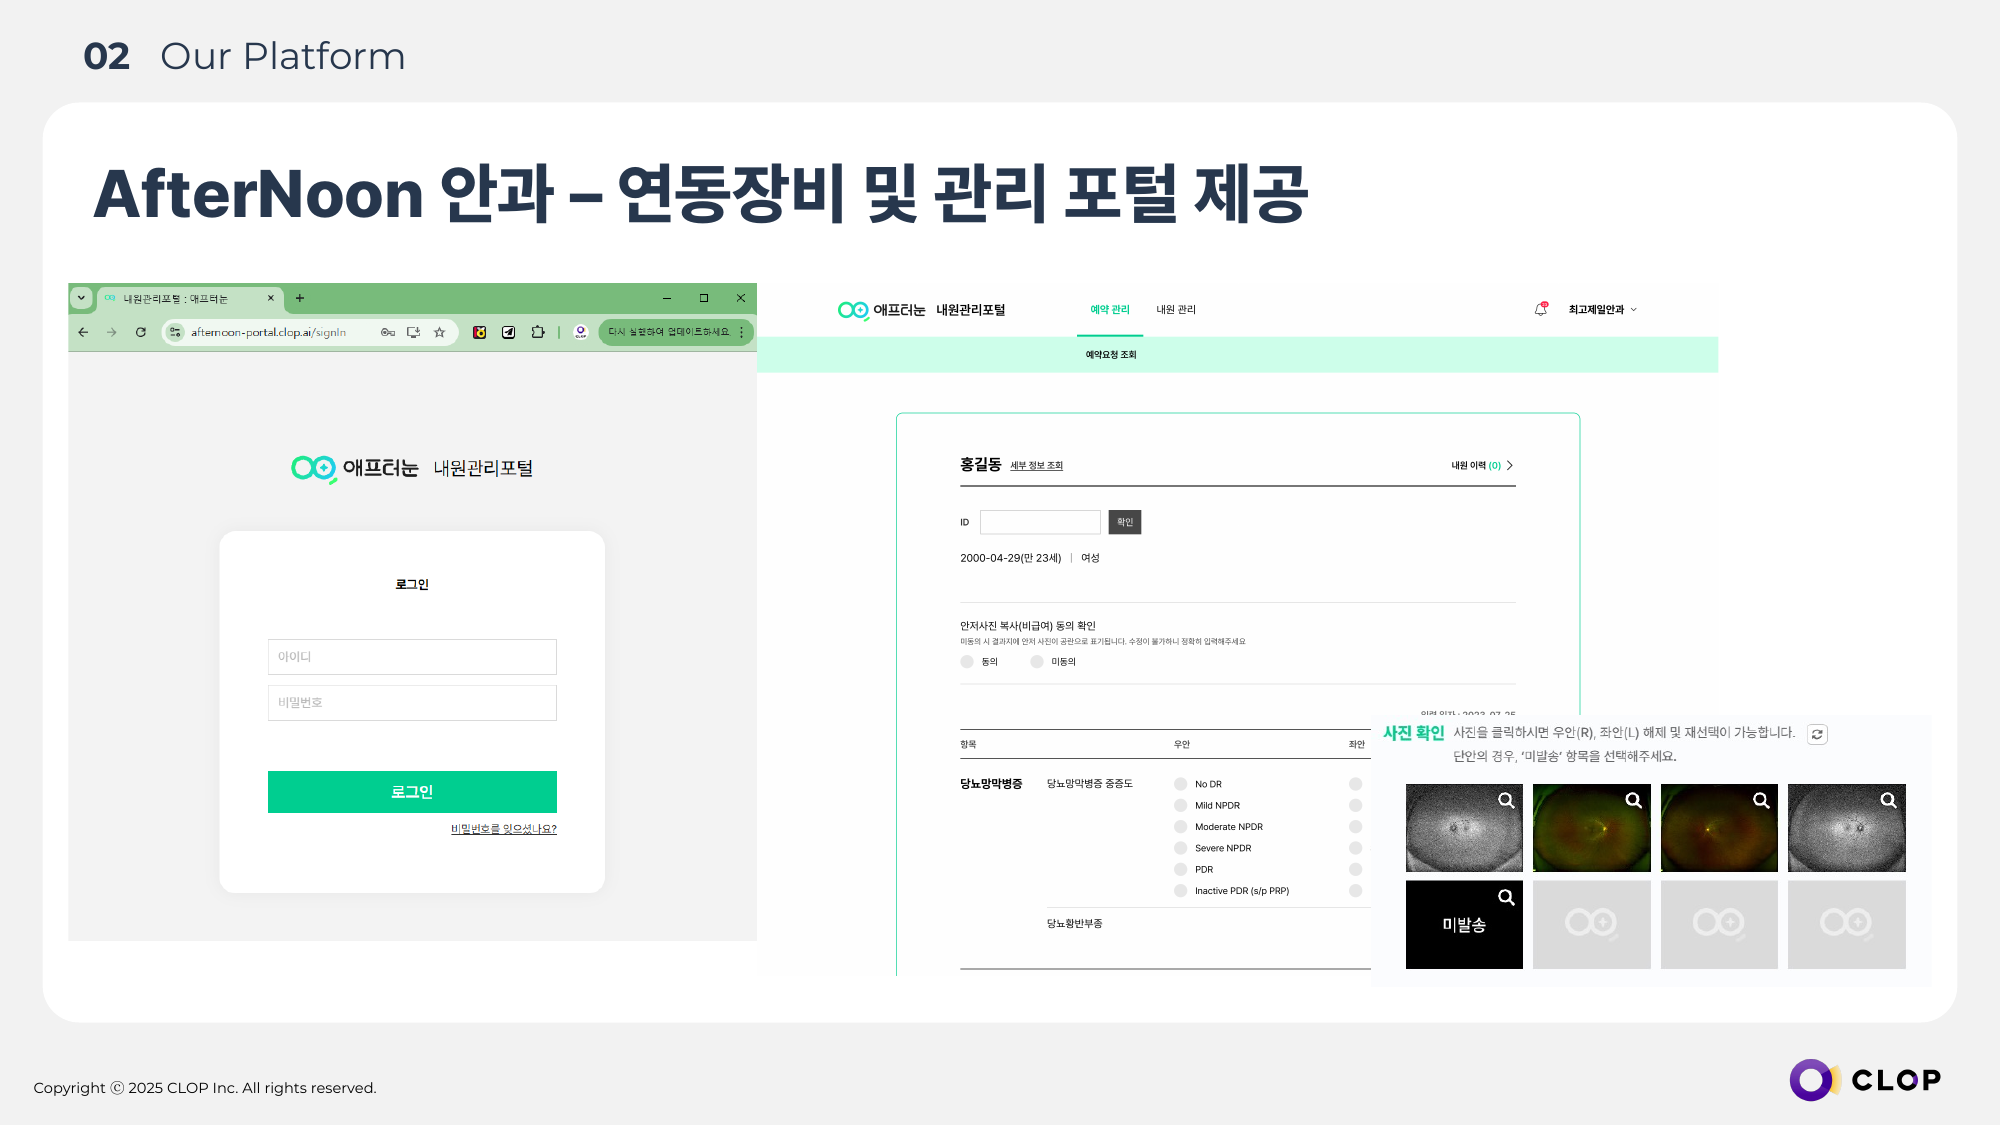
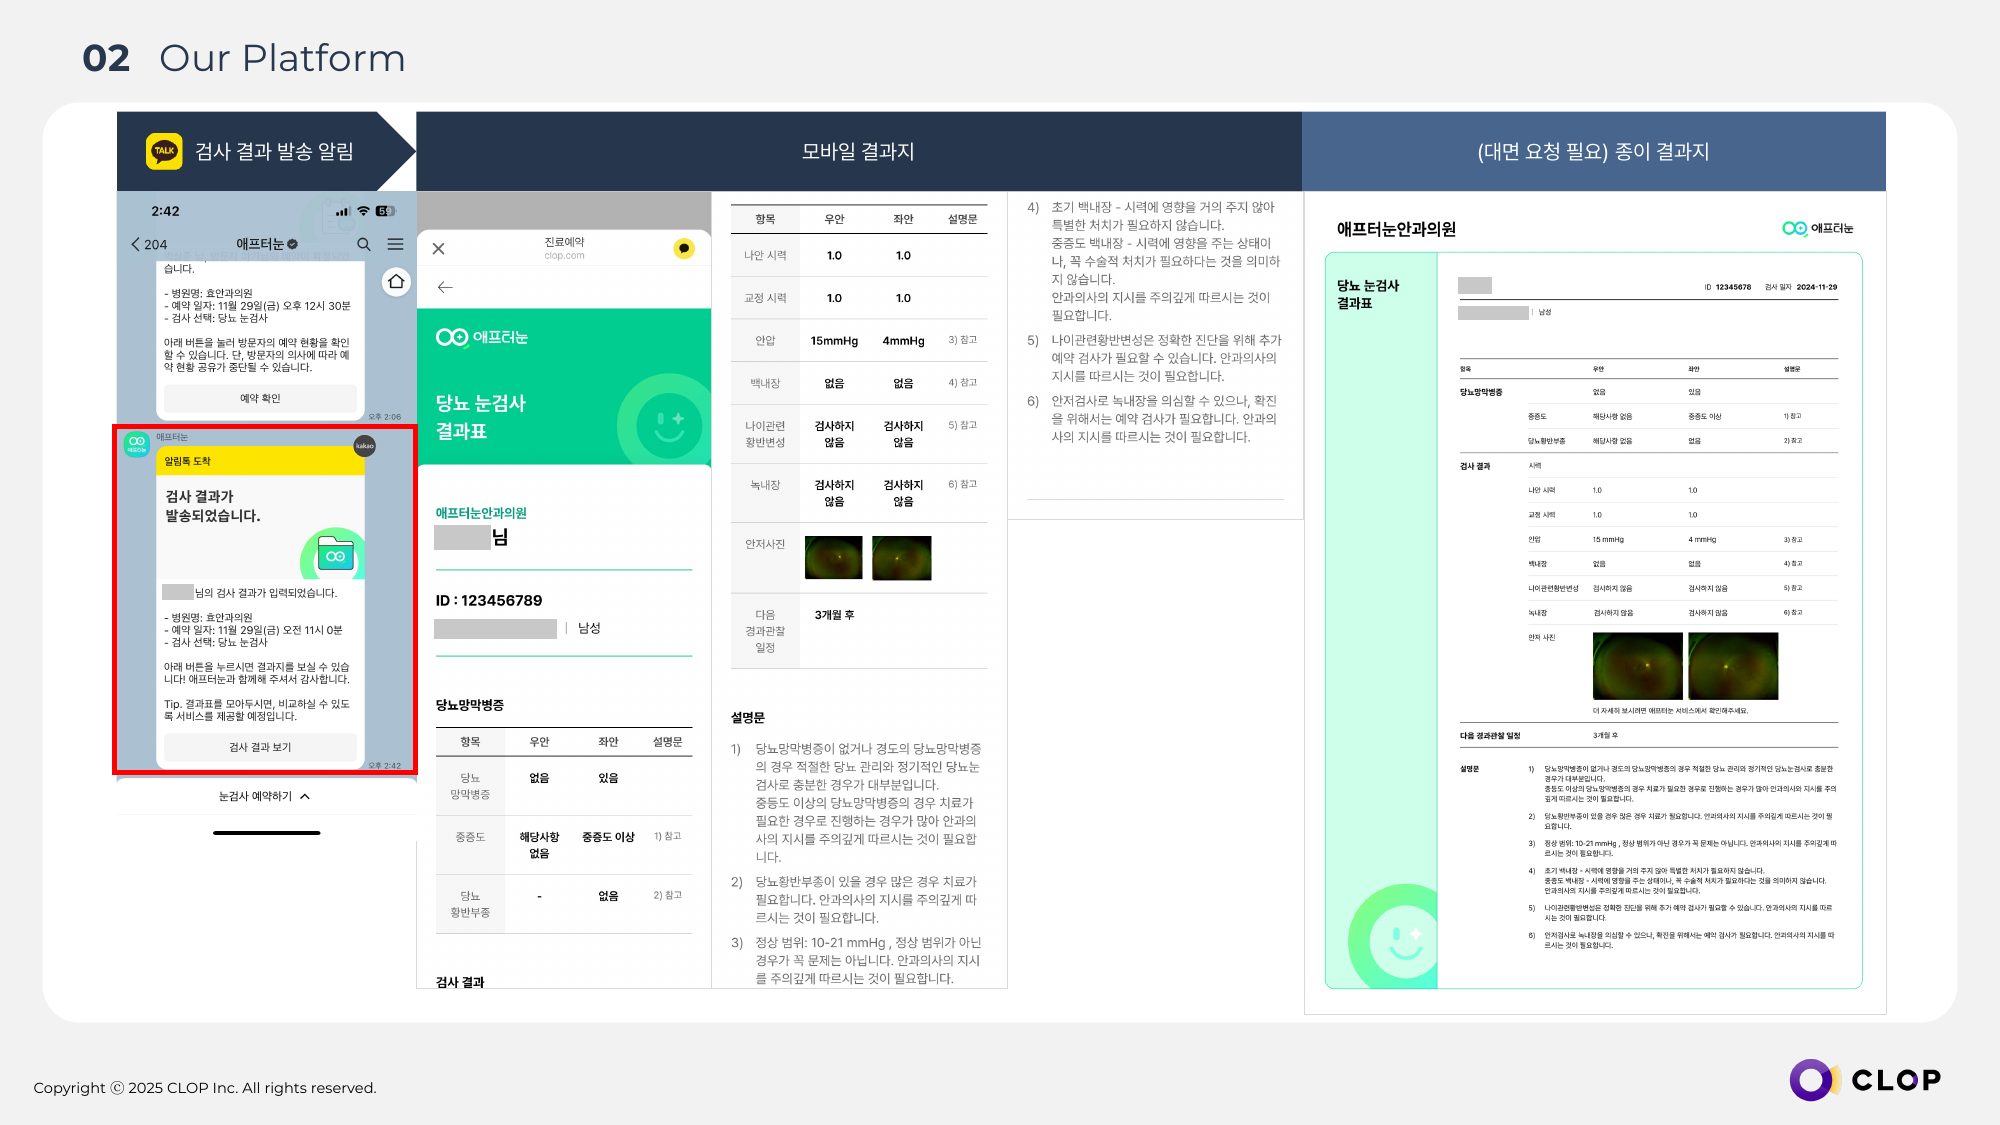
Fix 3 mislabeled screen images (same URLs)
- screens/p01-kiosk-booking.png: real 5-step kiosk booking flow (JKD Appendix 1)
- screens/p04-05-result-alimtalk.png: result-delivery slide, executive name/DOB masked
- screens/p06-qr-mobile-result.png: real QR-at-exam-room slide, executive name/DOB masked
- manifest.json, url_map.md: source filenames updated

diff --git a/url_map.md b/url_map.md
@@ -1,8 +1,8 @@
 P04_모바일결과지_당뇨_REAL_데모.png	https://raw.githubusercontent.com/clopai/afternoon-whitepaper-assets/main/screens/p04-mobile-result-dm.png
 P05_종이결과지_당뇨_REAL_데모.png	https://raw.githubusercontent.com/clopai/afternoon-whitepaper-assets/main/screens/p05-paper-result-dm.png
-P06_진료실앞QR_모바일결과지_포천p28_DEMO.png	https://raw.githubusercontent.com/clopai/afternoon-whitepaper-assets/main/screens/p06-qr-mobile-result.png
-P01_키오스크예약_포천p19_DEMO.png	https://raw.githubusercontent.com/clopai/afternoon-whitepaper-assets/main/screens/p01-kiosk-booking.png
-P04_05_결과지_알림톡모바일종이_포천p22_DEMO.png	https://raw.githubusercontent.com/clopai/afternoon-whitepaper-assets/main/screens/p04-05-result-alimtalk.png
+P06_진료실앞QR_결과확인_포천p25_DEMO_마스킹.png	https://raw.githubusercontent.com/clopai/afternoon-whitepaper-assets/main/screens/p06-qr-mobile-result.png
+P01_키오스크예약5단계_JKD부록1_DEMO.png	https://raw.githubusercontent.com/clopai/afternoon-whitepaper-assets/main/screens/p01-kiosk-booking.png
+P04_05_결과알림톡_모바일종이결과지_포천p19_DEMO_마스킹.png	https://raw.githubusercontent.com/clopai/afternoon-whitepaper-assets/main/screens/p04-05-result-alimtalk.png
 P10_드림렌즈결과지_REAL_데모.png	https://raw.githubusercontent.com/clopai/afternoon-whitepaper-assets/main/screens/p10-dreamlens-result.png
 P11_소청시력결과지_REAL_데모.png	https://raw.githubusercontent.com/clopai/afternoon-whitepaper-assets/main/screens/p11-pediatric-vision-result.png
 P14_안축장_결과지_단건_REAL_데모.png	https://raw.githubusercontent.com/clopai/afternoon-whitepaper-assets/main/screens/p14-axl-result-single.png
